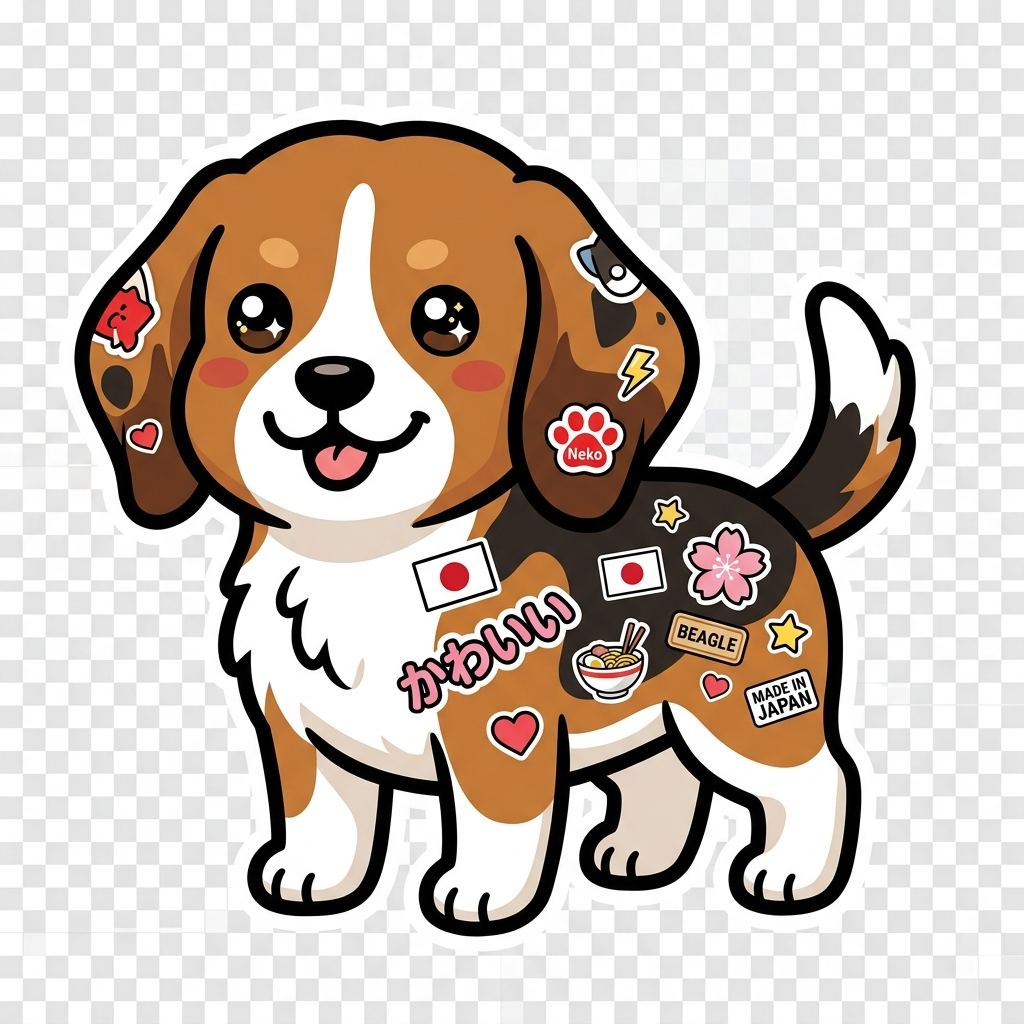
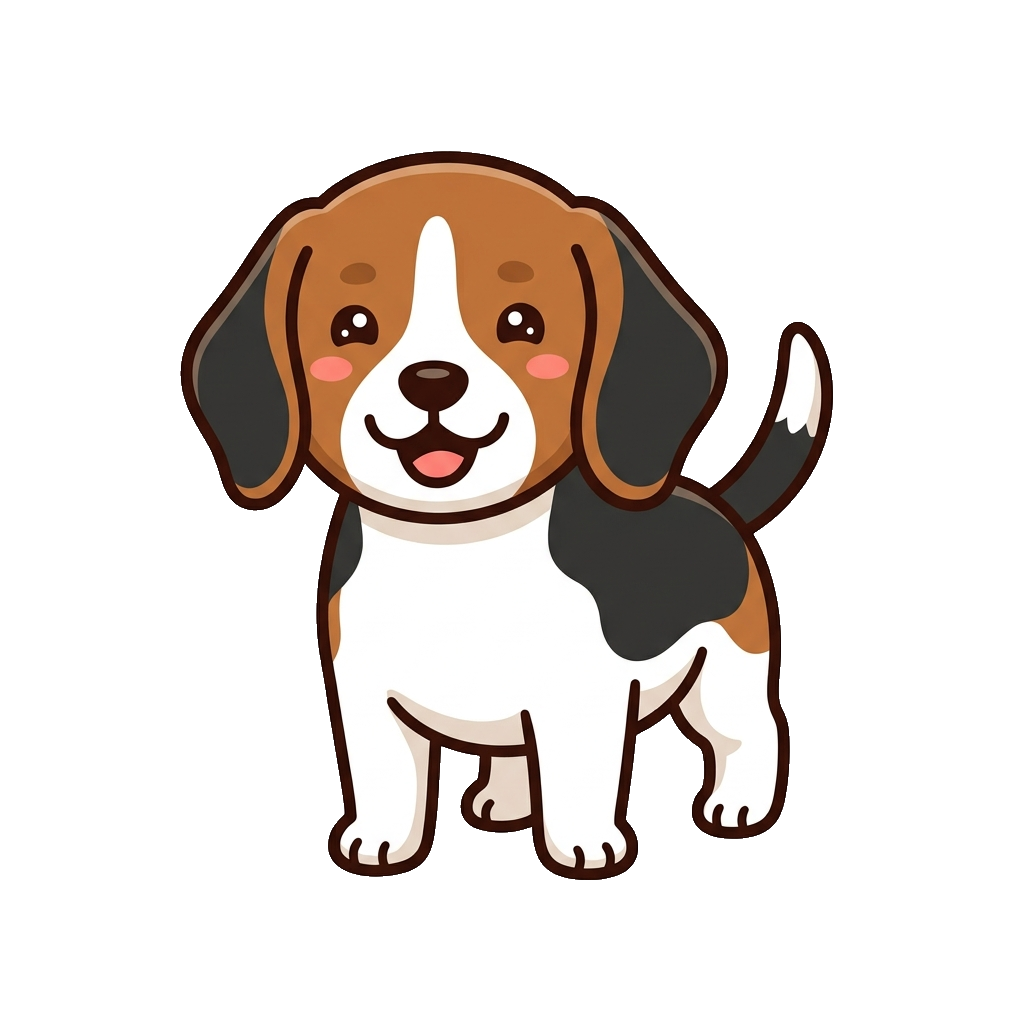
fix: clean mascot sticker assets and apply clipStyle for non-shiba clothing overlays

diff --git a/src/components/mascot/ShibaAvatar.tsx b/src/components/mascot/ShibaAvatar.tsx
@@ -4,6 +4,7 @@ import { useRef, useEffect, useState, useCallback } from "react";
 import Image from "next/image";
 import clsx from "clsx";
 import { motion, AnimatePresence } from "framer-motion";
+import { getItemSlot } from "@/lib/wardrobe";
 
 /**
  * 캐릭터별 기본 이미지 매핑
@@ -481,22 +482,32 @@ export function ShibaAvatar({
             />
 
             {/* 아이템 오버레이 레이어들 */}
-            {useOverlay && overlayItems.map(({ rawId, normalizedId }) => (
-              <Image
-                key={rawId}
-                src={ITEM_OVERLAYS[normalizedId]}
-                alt={normalizedId}
-                width={size}
-                height={size}
-                className={clsx(
-                  "absolute inset-0 object-contain pointer-events-none",
-                  circular && "object-cover rounded-full"
-                )}
-                style={{ zIndex: ITEM_Z_INDEX[normalizedId] ?? 10 }}
-                onError={() => handleOverlayError(normalizedId)}
-                unoptimized
-              />
-            ))}
+            {useOverlay && overlayItems.map(({ rawId, normalizedId }) => {
+              const isNonShiba = characterId && characterId !== "shiba";
+              const slot = getItemSlot(normalizedId);
+              const clipStyle = isNonShiba ? (
+                slot === "head" ? { clipPath: "inset(0 0 35% 0)" } :
+                slot === "face" ? { clipPath: "inset(10% 5% 20% 5%)" } :
+                { clipPath: "inset(30% 0 0 0)" }
+              ) : {};
+
+              return (
+                <Image
+                  key={rawId}
+                  src={ITEM_OVERLAYS[normalizedId]}
+                  alt={normalizedId}
+                  width={size}
+                  height={size}
+                  className={clsx(
+                    "absolute inset-0 object-contain pointer-events-none",
+                    circular && "object-cover rounded-full"
+                  )}
+                  style={{ zIndex: ITEM_Z_INDEX[normalizedId] ?? 10, ...clipStyle }}
+                  onError={() => handleOverlayError(normalizedId)}
+                  unoptimized
+                />
+              );
+            })}
           </motion.div>
         </AnimatePresence>
       </motion.div>
